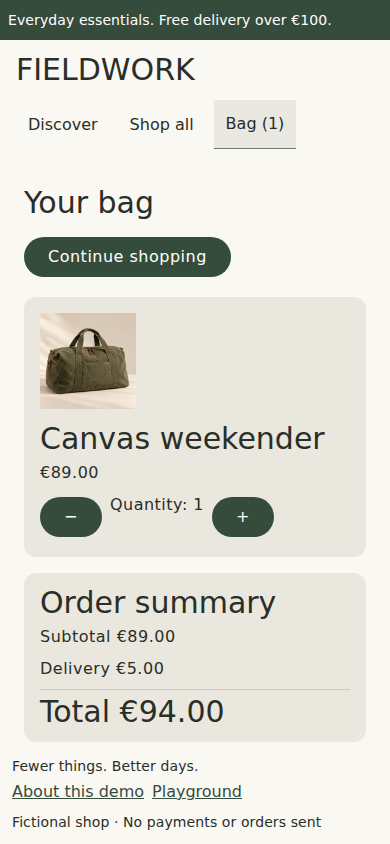
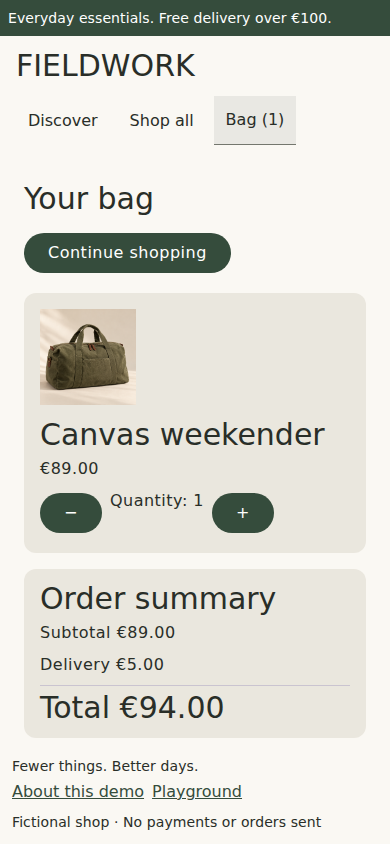
Preserve compact HTML text measurement through modifiers (#69)
* Preserve compact HTML text measurement through modifiers

* Verify ordinary text modifiers without semantic wrapper masking

* Update reviewed shop baselines for native-sized notice text

diff --git a/domposable-ui/src/jsTest/kotlin/io/github/samuolis/domposable/ui/HtmlModifierTextMeasurementTest.kt b/domposable-ui/src/jsTest/kotlin/io/github/samuolis/domposable/ui/HtmlModifierTextMeasurementTest.kt
@@ -1,0 +1,76 @@
+package io.github.samuolis.domposable.ui
+
+import io.github.samuolis.domposable.foundation.dp
+import kotlinx.browser.document
+import org.jetbrains.compose.web.dom.Div
+import org.jetbrains.compose.web.dom.Span
+import org.jetbrains.compose.web.dom.Text
+import org.jetbrains.compose.web.renderComposable
+import org.w3c.dom.HTMLElement
+import kotlin.test.Test
+import kotlin.test.assertEquals
+
+class HtmlModifierTextMeasurementTest {
+    @Test
+    fun stackedTextModifiersDoNotAddInheritedBaselineSpace() {
+        val cases =
+            listOf(
+                Triple("semantic", DomposableModifier, 17),
+                Triple("padding", DomposableModifier.padding(4.dp), 25),
+                Triple("opacity", DomposableModifier.alpha(0.7f), 17),
+                Triple("alignment", DomposableModifier.weight(1f), 17),
+                Triple("custom", DomposableModifier.then(TextScope), 17),
+            )
+        val root = document.createElement("div") as HTMLElement
+        document.body!!.appendChild(root)
+        val composition =
+            renderComposable(root) {
+                Div(attrs = {
+                    style {
+                        property("display", "flex")
+                        property("flex-direction", "column")
+                        property("font-size", "16px")
+                        property("line-height", "24px")
+                    }
+                }) {
+                    cases.forEach { (name, modifier, _) ->
+                        val taggedModifier = modifier.testId(name)
+                        val semanticWrapper = name == "semantic"
+                        DomposableHtmlModifiers(
+                            taggedModifier,
+                            wrapSemantics = semanticWrapper,
+                            operationRenderer = { element ->
+                                if (element == TextScope) ({ classes("custom-text") }) else null
+                            },
+                        ) {
+                            Span(attrs = {
+                                if (!semanticWrapper) domposableAttributes(taggedModifier)
+                                style {
+                                    property("font-size", "14px")
+                                    property("line-height", "17px")
+                                }
+                            }) { Text("One line") }
+                        }
+                    }
+                }
+            }
+        try {
+            var previousBottom: Double? = null
+            cases.forEach { (name, _, expected) ->
+                val tag = root.querySelector("[data-testid=$name]") as HTMLElement
+                // Standard components put semantic attributes on their content root, without an
+                // inner semantic wrapper that could mask a modifier's anonymous line box.
+                val box = if (name == "semantic") tag else tag.parentElement as HTMLElement
+                assertEquals(expected, box.offsetHeight, "$name measured text height")
+                val bounds = box.getBoundingClientRect()
+                previousBottom?.let { assertEquals(it, bounds.top, "$name stack gap") }
+                previousBottom = bounds.bottom
+            }
+        } finally {
+            composition.dispose()
+            root.parentNode?.removeChild(root)
+        }
+    }
+}
+
+private data object TextScope : DomposableModifierElement

diff --git a/domposable-design-material/src/jsTest/kotlin/io/github/samuolis/domposable/material/HtmlTextAppearanceTest.kt b/domposable-design-material/src/jsTest/kotlin/io/github/samuolis/domposable/material/HtmlTextAppearanceTest.kt
@@ -1,0 +1,51 @@
+package io.github.samuolis.domposable.material
+
+import io.github.samuolis.domposable.foundation.DomposableFontWeight
+import io.github.samuolis.domposable.foundation.DomposableTextAppearance
+import io.github.samuolis.domposable.foundation.DomposableTypographyRole
+import io.github.samuolis.domposable.ui.DomposableText
+import kotlinx.browser.window
+import org.jetbrains.compose.web.dom.Button
+import org.jetbrains.compose.web.dom.Span
+import org.jetbrains.compose.web.dom.Text
+import org.w3c.dom.HTMLElement
+import kotlin.test.Test
+import kotlin.test.assertEquals
+
+class HtmlTextAppearanceTest {
+    @Test
+    fun customTextHostSharesThemeMetricsWithStandardTextAndRespondsToThemeChanges() {
+        val appearance = DomposableTextAppearance(role = DomposableTypographyRole.BodyMedium)
+        withHost(content = {
+            DomposableText("Standard", appearance = appearance)
+            Span(attrs = { domposableTextAppearance(appearance) }) {
+                Text("Custom ")
+                Button { Text("More") }
+            }
+            Span(attrs = {
+                domposableTextAppearance(appearance.copy(fontSize = 11f, fontWeight = DomposableFontWeight.Bold))
+            }) { Text("Override") }
+        }) { root ->
+            val standard = root.querySelector(".d-text") as HTMLElement
+            val custom = root.querySelectorAll("span").item(1) as HTMLElement
+            val override = root.querySelectorAll("span").item(2) as HTMLElement
+            val theme = root.firstElementChild as HTMLElement
+
+            fun assertMatching() {
+                val expected = window.getComputedStyle(standard)
+                val actual = window.getComputedStyle(custom)
+                assertEquals(expected.fontSize, actual.fontSize)
+                assertEquals(expected.lineHeight, actual.lineHeight)
+                assertEquals(expected.fontWeight, actual.fontWeight)
+            }
+            assertMatching()
+            theme.style.setProperty("--d-type-body-medium-size", "28px")
+            theme.style.setProperty("--d-type-body-medium-line-height", "34px")
+            assertMatching()
+            assertEquals("28px", window.getComputedStyle(custom).fontSize)
+            assertEquals("34px", window.getComputedStyle(custom).lineHeight)
+            assertEquals("11px", window.getComputedStyle(override).fontSize)
+            assertEquals("700", window.getComputedStyle(override).fontWeight)
+        }
+    }
+}

diff --git a/domposable-ui/src/jsMain/kotlin/io/github/samuolis/domposable/ui/HtmlInterop.kt b/domposable-ui/src/jsMain/kotlin/io/github/samuolis/domposable/ui/HtmlInterop.kt
@@ -193,6 +193,8 @@ fun DomposableHtmlModifiers(
             style {
                 childLayoutSizing(visual)
                 property("box-sizing", "border-box")
+                property("display", "grid")
+                property("grid-template-columns", "minmax(0, 1fr)")
                 layout.forEach { element ->
                     when (element) {
                         is DomposableModifierOperation.Weight -> {
@@ -344,6 +346,10 @@ private fun HtmlModifierBox(
         }
         Div(attrs = {
             if (pointerPassthrough) attr("data-domposable-pointer-passthrough", "")
+            style {
+                property("display", "grid")
+                property("grid-template-columns", "minmax(0, 1fr)")
+            }
             if (fillAvailableHeight || fillHeightAhead || inheritedWidth) {
                 style {
                     property("box-sizing", "border-box")
@@ -433,6 +439,9 @@ private fun HtmlModifierBox(
         }
         style {
             property("box-sizing", "border-box")
+            // A modifier measures its child, not an anonymous browser line box around that child.
+            property("display", "grid")
+            property("grid-template-columns", "minmax(0, 1fr)")
             if (childFillsHeight || childFillsWidth) {
                 property(
                     "display",

diff --git a/consumer-fixture/src/jsMain/kotlin/example/consumer/HtmlModifierConsumer.kt b/consumer-fixture/src/jsMain/kotlin/example/consumer/HtmlModifierConsumer.kt
@@ -1,6 +1,9 @@
 package example.consumer
 
 import androidx.compose.runtime.Composable
+import io.github.samuolis.domposable.foundation.DomposableTextAppearance
+import io.github.samuolis.domposable.foundation.DomposableTypographyRole
+import io.github.samuolis.domposable.material.domposableTextAppearance
 import io.github.samuolis.domposable.ui.DomposableHtmlModifierDecoration
 import io.github.samuolis.domposable.ui.DomposableHtmlModifierDecorationRenderer
 import io.github.samuolis.domposable.ui.DomposableHtmlModifierElementRenderer
@@ -9,6 +12,15 @@ import io.github.samuolis.domposable.ui.DomposableModifier
 import io.github.samuolis.domposable.ui.DomposableText
 import io.github.samuolis.domposable.ui.htmlAttributes
 import org.jetbrains.compose.web.dom.Div
+import org.jetbrains.compose.web.dom.Span
+import org.jetbrains.compose.web.dom.Text
+
+@Composable
+fun ThemedHtmlTextConsumer(text: String) {
+    Span(attrs = {
+        domposableTextAppearance(DomposableTextAppearance(role = DomposableTypographyRole.BodyMedium))
+    }) { Text(text) }
+}
 
 @Composable
 fun DecoratedHtmlConsumer(

diff --git a/domposable-design-material/src/jsMain/kotlin/io/github/samuolis/domposable/material/HtmlTextAppearance.kt b/domposable-design-material/src/jsMain/kotlin/io/github/samuolis/domposable/material/HtmlTextAppearance.kt
@@ -1,0 +1,13 @@
+package io.github.samuolis.domposable.material
+
+import io.github.samuolis.domposable.foundation.DomposableTextAppearance
+import org.jetbrains.compose.web.attributes.AttrsScope
+
+/**
+ * Applies the same theme typography and presentation as DomposableText to a custom HTML text host.
+ * Roles resolve through the nearest theme's variables; explicit appearance values override them.
+ * This adds no element and leaves content, events, line measurement and semantics to the caller.
+ */
+fun AttrsScope<*>.domposableTextAppearance(appearance: DomposableTextAppearance) {
+    style { applyCatalogTextAppearance(appearance) }
+}

diff --git a/docs/design-systems.md b/docs/design-systems.md
@@ -301,6 +301,27 @@ using the configured control type scale, dimensions and focus styling. Select co
 host typography too, instead of the browser's default form font. No `.d-theme` class is needed.
 Use `DomposableMaterialTheme` for a standalone application that wants the default full theme.
 
+Custom HTML text hosts can use the same typed appearance as `DomposableText`, including a host
+that mixes text with an inline expand/collapse button. No application stylesheet is required:
+
+```kotlin
+import io.github.samuolis.domposable.foundation.DomposableTextAppearance
+import io.github.samuolis.domposable.foundation.DomposableTypographyRole
+import io.github.samuolis.domposable.material.domposableTextAppearance
+
+Span(attrs = {
+    domposableTextAppearance(DomposableTextAppearance(role = DomposableTypographyRole.BodyMedium))
+}) {
+    Text(description)
+    Button(attrs = { onClick { expanded = !expanded } }) { Text("More") }
+}
+```
+
+The role reads the nearest theme's typography and follows theme variable updates. Explicit
+appearance values override that role. Apply the same appearance to any hidden measurement probe
+so wrapping and overflow detection use identical metrics. The helper styles the existing element;
+the custom component still owns its events, content, measurement and accessibility semantics.
+
 Matrix schemas are portable library models. A matrix may use a generic application icon value;
 the provider resolves it. Specialized diagrams and rich-text editors stay application-owned typed
 extension components. A basic read-only RichHtml control and shared sanitizer are reusable library
